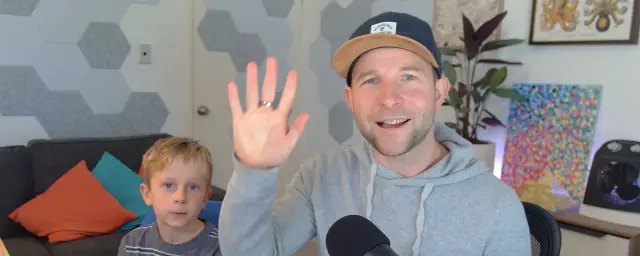
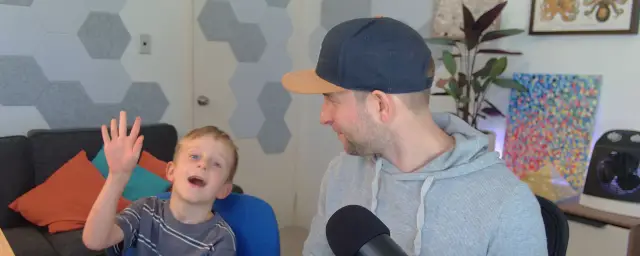
Use a header for Introducing Let's Build It! that crops well on phones

diff --git a/public/posts/introducing-lets-build-it/post.md b/public/posts/introducing-lets-build-it/post.md
@@ -1,5 +1,5 @@
 ---
-coverImage: ./header.webp
+coverImage: ./header-josh-wave.webp
 date: "2026-10-12T00:00:00.000Z"
 tags:
   - personal
